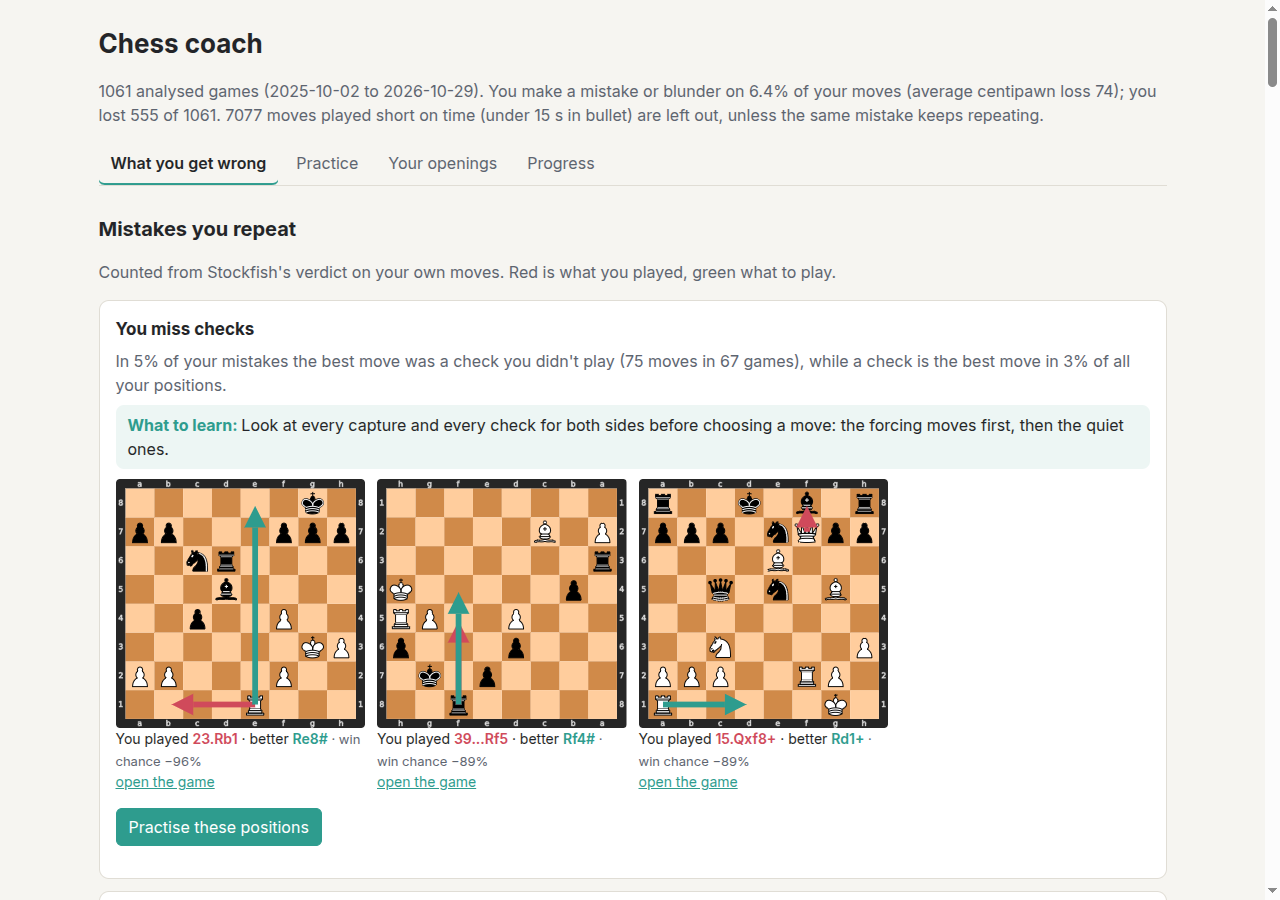
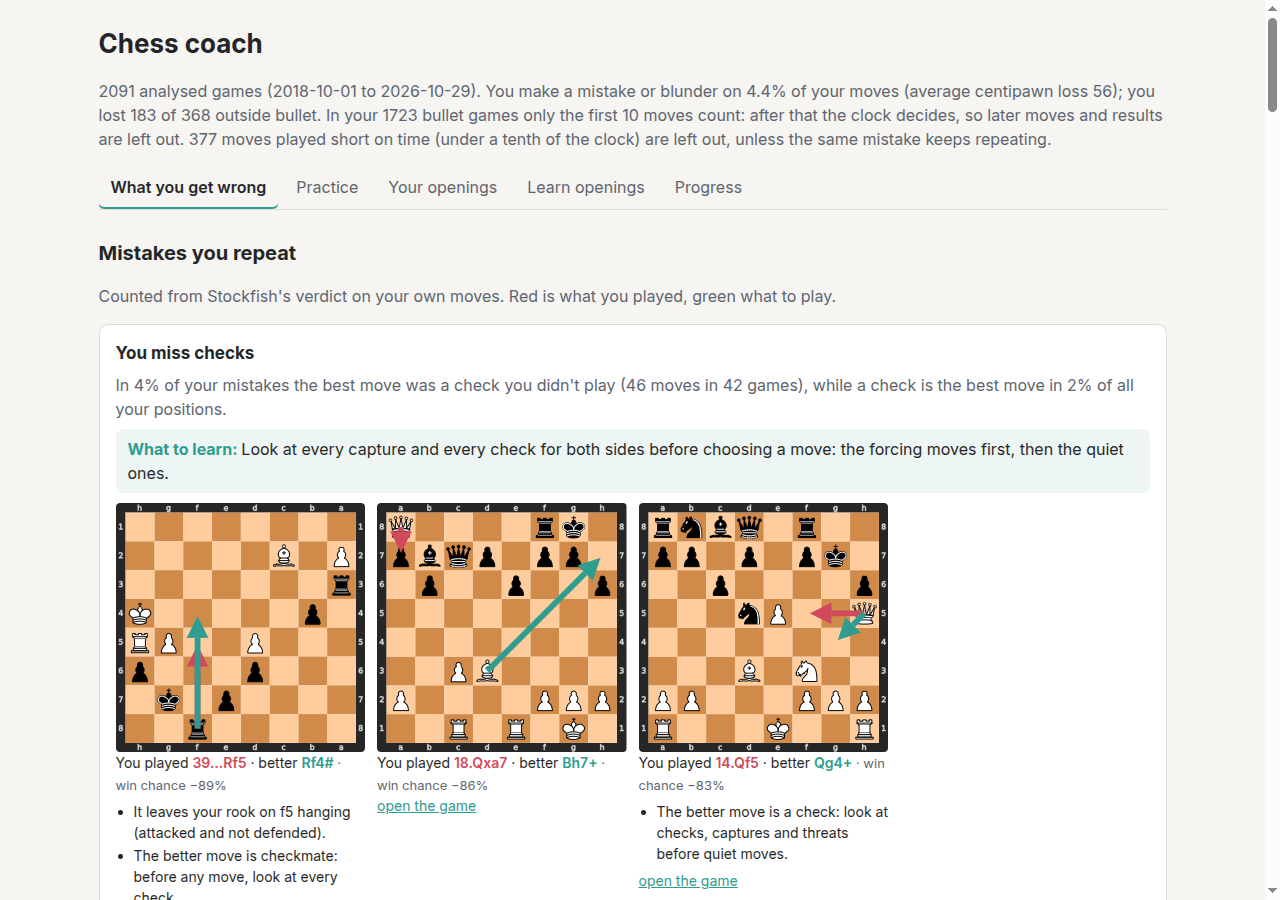
docs: new screenshots from the full analysis, five of them
The two old ones were taken mid-analysis (1,061 games) and before v5. Now:
mistakes, practice with the lines, your openings, Learn openings (with the
opponent-mistake reasons and the practice line) and the weekly rating trend.
Taken from #10-#12 merged locally, on a copy of the author's database.

Changed region(s): [[0.0625, 0.0933, 0.9062, 1.0], [0.9688, 0.0933, 1.0, 0.1244]]

diff --git a/README.md b/README.md
@@ -15,13 +15,31 @@ plain language, and trains you on exactly those spots.
   repetition so the ones you keep failing come back.
 - Weekly digest: what changed, what to work on next, one opening line to study.
 
-`chess-coach serve` on the author's own Lichess games: the mistakes you repeat, on your own
-positions (red arrow: what you played; green: what to play), and your openings with the habitual
-moves worth fixing.
+`chess-coach serve` on the author's own Lichess games (2,091 of them, all analysed).
+
+The mistakes you repeat, on your own positions (red arrow: what you played; green: what to
+play), with what to learn:
 
 ![What you get wrong](docs/screenshots/mistakes.png)
 
+Practice on your own mistakes. After an answer, step through the best line next to the move you
+played in the game (here 8...Nxf2+ forks king and rook; the game went 8...Nxe5):
+
+![Practice: a puzzle from your game, with the lines](docs/screenshots/practice.png)
+
+Your openings, with your score, your usual line and the habitual moves worth fixing:
+
 ![Your openings](docs/screenshots/openings.png)
+
+Learn openings: the tree of your own games. Where the opponent went wrong it shows the
+punishment, how you actually answered (4...Nf6 in the Danish: met 21 times, punished 0 times) and
+why it's a mistake in chess terms:
+
+![Learn openings](docs/screenshots/learn-openings.png)
+
+Your rating week by week next to the practice you did (bullet left out):
+
+![Rating and practice by week](docs/screenshots/progress.png)
 
 ## Why build it
 
